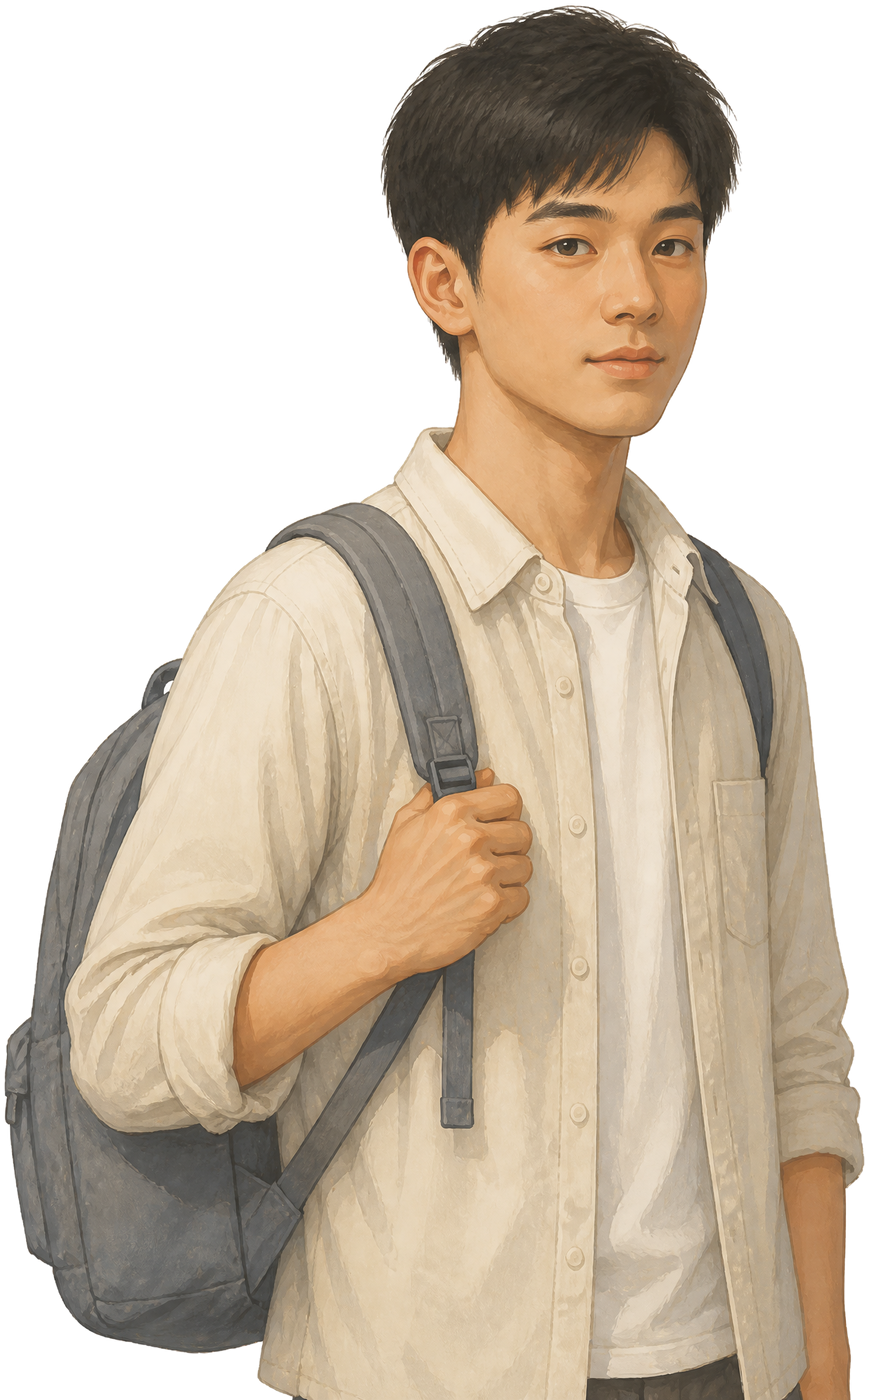
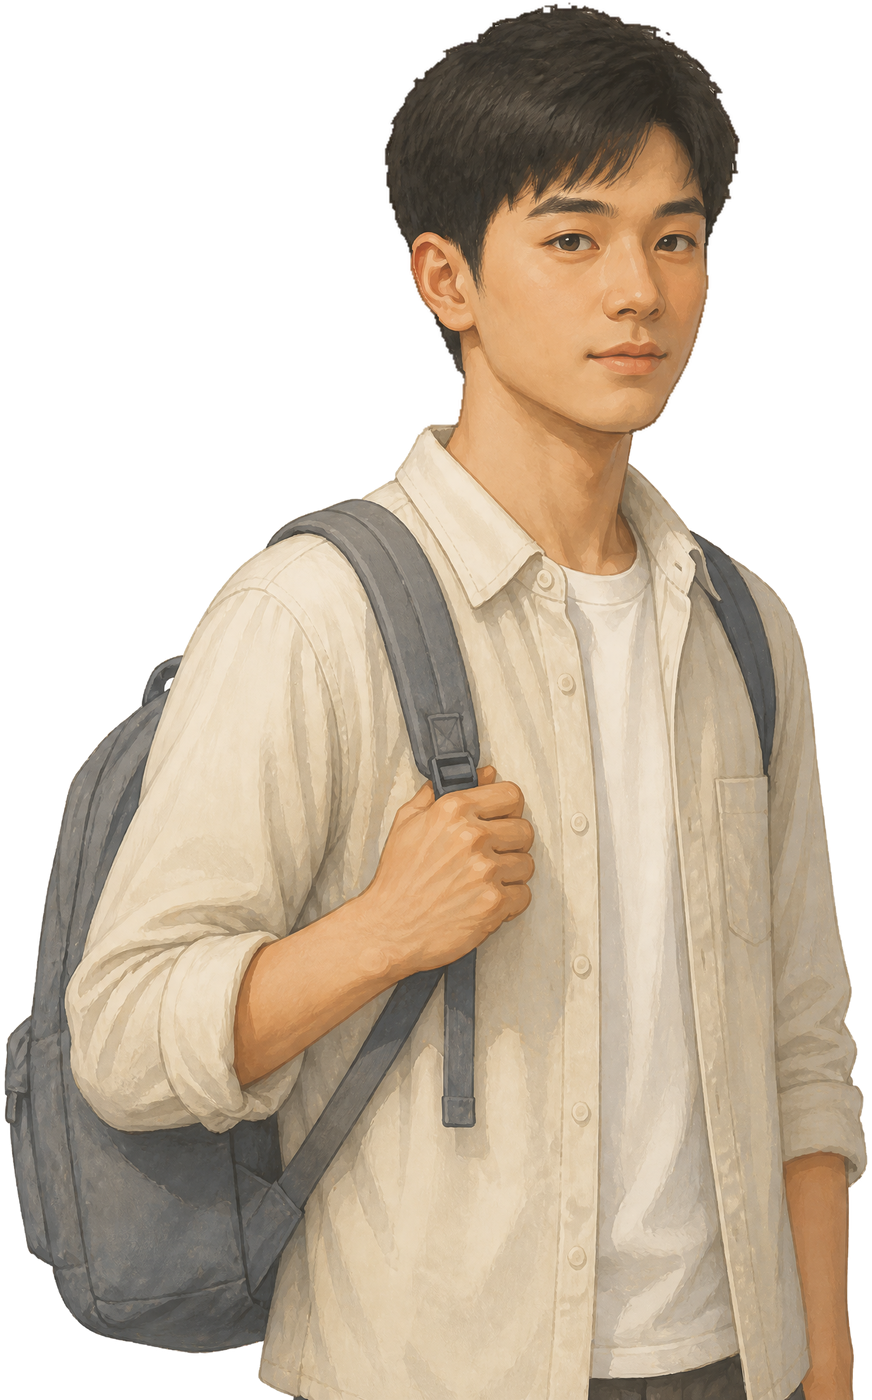
Optimize artwork loading and clean player hair edges

diff --git a/app.js b/app.js
@@ -42,7 +42,26 @@
   }).filter((m,i,all)=>all.findIndex(other=>other.key===m.key)===i);
   const esc = s => String(s).replace(/[&<>"']/g, c => ({'&':'&amp;','<':'&lt;','>':'&gt;','"':'&quot;',"'":'&#39;'}[c]));
   const artSrc = id => temporaryArt.get(id) || `assets/${art.find(a=>a.id===id).file}`;
-  const img = (id, cls='', alt='') => `<img class="${cls}" data-art="${id}" src="${esc(artSrc(id))}" alt="${esc(alt)}">`;
+  const img = (id, cls='', alt='') => `<img class="${cls}" data-art="${id}" src="${esc(artSrc(id))}" alt="${esc(alt)}" decoding="async"${cls==='scene-image'?' fetchpriority="high"':''}>`;
+  const warmedImages = new Map();
+  let warmRevision = 0;
+  function prepareNextImages(ids) {
+    const revision = ++warmRevision;
+    if(navigator.connection?.saveData)return;
+    // Finish the visible artwork first; speculative requests must not delay it.
+    const visible = [...app.querySelectorAll('img')];
+    Promise.allSettled(visible.map(el=>el.decode())).then(()=>setTimeout(async()=>{
+      for(const id of [...new Set(ids)].filter(Boolean)){
+        if(revision!==warmRevision)return;
+        const src=artSrc(id);
+        if(warmedImages.has(src))continue;
+        const preview=new Image();preview.decoding='async';preview.fetchPriority='low';
+        warmedImages.set(src,preview);
+        preview.src=src;
+        try{await preview.decode();}catch(_){warmedImages.delete(src);}
+      }
+    },200));
+  }
   function wireImages(root=document) {
     root.querySelectorAll('img[data-art]').forEach(el => {
       const success = () => {
@@ -72,7 +91,7 @@
   }
   function renderCover() {
     showingCover=true;
-    app.innerHTML=`<section class="ending opening-screen">${img('cover','scene-image','清晨稻田主页面')}<div class="ending-content"><h1 class="cover-title"><img src="assets/00-title.png" alt="稻续山河" width="1857" height="658"></h1><p>一粒稻种，<br>一场未完的梦。</p><div class="ending-buttons"><button class="primary" id="start-button">${state.started?'继续故事':'走进稻乡'}</button>${state.started?'<button class="secondary" id="restart-cover">重新启程</button>':''}</div></div></section>`;
+    app.innerHTML=`<section class="ending opening-screen">${img('cover','scene-image','清晨稻田主页面')}<div class="ending-content"><h1 class="cover-title"><img src="assets/00-title.webp" alt="稻续山河" width="1857" height="658"></h1><p>一粒稻种，<br>一场未完的梦。</p><div class="ending-buttons"><button class="primary" id="start-button">${state.started?'继续故事':'走进稻乡'}</button>${state.started?'<button class="secondary" id="restart-cover">重新启程</button>':''}</div></div></section>`;
     document.querySelector('#start-button').onclick=()=>{state.started=true;save();renderStory();};
     document.querySelector('#restart-cover')?.addEventListener('click',restartPrompt);
     if(state.finished){
@@ -80,6 +99,8 @@
       document.querySelector('#cover-chapters').onclick=showChapters;document.querySelector('#restart-cover').onclick=restartPrompt;
     }else if(state.hasCompleted){app.querySelector('.ending-buttons').insertAdjacentHTML('beforeend','<button class="secondary" id="cover-chapters">选择章节</button>');document.querySelector('#cover-chapters').onclick=showChapters;}
     wireImages(app);
+    const resume=nodes[state.index];
+    prepareNextImages([resume.scene||chapters[resume.chapter].scene,...(resume.chapter===2?['rice-normal','rice-special']:[]),'grandpa','player']);
   }
   function currentText(node) {
     if(node.dynamic==='harvest-reflection')return state.results.harvest?.lost>0?'刚才我只想着把杂屑扬干净，手一重，连谷子也扬出去了。以前说“别浪费粮食”，到了自己手上，才知道留下它也得有耐心。':'这一把谷子就得这么仔细，才能稳稳留下来。我以前只看见碗里的饭，还真没想过，前面有这么多道工夫。';
@@ -120,6 +141,8 @@
       remember('你',option.label);state.dreamActive=option.id;state.dreamAnswers[state.dreamQuestion]=option.id;renderStory();
     });
     wireImages(app);
+    const nextScene=nodes.slice(state.index+1).map(n=>n.scene||chapters[n.chapter].scene).find(id=>id!==scene);
+    prepareNextImages([...(node.chapter===2?['rice-normal','rice-special']:[]),!night?(portrait==='player'?'grandpa':'player'):null,nextScene,...(nextScene==='research'?['rice-normal','rice-special']:[])]);
   }
   function advance() {
     const node=nodes[state.index];
@@ -132,6 +155,7 @@
     state.index=Math.min(state.index+1,nodes.length-1);renderStory();
   }
   function renderEnding() {
+    ++warmRevision;
     showingCover=false;state.finished=true;state.hasCompleted=true;save();
     app.innerHTML=`<section class="ending finale">${img('epilogue','scene-image','星河稻田中的老人和青年')}<div class="ending-content"><h1>稻续山河</h1><p>前人种下稻种，<br>我们继续守护山河稻香。</p><div class="ending-buttons"><button class="primary" id="ending-memory">回望沿途记忆</button><button class="secondary" id="ending-home">回到主页面</button></div></div></section>`;
     document.querySelector('#ending-memory').onclick=showChapters;

diff --git a/story.js b/story.js
@@ -7,22 +7,22 @@ window.RICE_STORY = (() => {
     {name:'梦起稻田', subtitle:'禾下乘凉，初心如愿', label:'第三章', scene:'dusk', time:'黄昏', place:'巨型稻片区 · 稻禾之下'}
   ];
   const art = [
-    {id:'cover', name:'主页面清晨稻田', file:'00-cover.png', type:'scene', note:'16:9 横幅；主页面独立背景'},
-    {id:'field', name:'清晨稻田', file:'01-field.png', type:'scene', note:'16:9 横幅；田埂向前延伸，底部留出对白空间'},
-    {id:'old', name:'老田埂', file:'02-old-field.png', type:'scene', note:'16:9 横幅；现实田间，旧照、锄头、竹篮可画入场景'},
-    {id:'research', name:'试验田', file:'03-research.png', type:'scene', note:'16:9 横幅；当下的水田，不出现过去人物'},
-    {id:'dusk', name:'黄昏巨型稻', file:'04-dusk.png', type:'scene', note:'16:9 横幅；高大稻禾，右侧可留人物位置'},
-    {id:'night', name:'星河与稻禾', file:'05-night.png', type:'scene', note:'16:9 横幅；你与李爷爷可直接画入最终全景'},
-    {id:'epilogue', name:'尾声传承全景', file:'16-epilogue.png', type:'scene', note:'尾声最后一段与标题结尾；画稿铺满场景，静态展示'},
-    {id:'grandpa', name:'李爷爷立绘', file:'06-grandpa.png', type:'portrait', note:'透明 PNG，建议 2:3；人物放在画面右侧，底部被对白框遮挡'},
-    {id:'player', name:'主控立绘', file:'07-player.png', type:'portrait', note:'透明 PNG；主控对白时显示在左侧'},
-    {id:'rice-normal', name:'普通稻穗特写', file:'09-rice-normal.png', type:'rice', note:'1:1；绘出较饱满、黄色的花药，仅作观察示意'},
-    {id:'rice-special', name:'目标稻穗特写', file:'10-rice-special.png', type:'rice', note:'1:1；绘出细瘦、色浅的花药，仅作观察示意'},
-    {id:'bundle', name:'打谷稻束', file:'11-bundle.png', type:'prop', note:'透明 PNG；横向稻束，用于点击脱粒'},
-    {id:'tray', name:'扬谷竹匾', file:'12-tray.png', type:'prop', note:'透明 PNG；俯视竹匾，拖动时整体移动'},
-    {id:'grain', name:'脱粒稻谷', file:'13-grain.png', type:'prop', note:'透明 PNG；一小堆稻谷，叠放在竹匾中'},
-    {id:'chaff', name:'谷中杂屑', file:'14-chaff.png', type:'prop', note:'透明 PNG；零散轻杂屑，扬谷时逐渐淡出'},
-    {id:'scale', name:'称粮秤', file:'15-scale.png', type:'prop', note:'透明 PNG；完整秤与空秤盘，放在称重区'},
+    {id:'cover', name:'主页面清晨稻田', file:'00-cover.webp', type:'scene', note:'16:9 横幅；主页面独立背景'},
+    {id:'field', name:'清晨稻田', file:'01-field.webp', type:'scene', note:'16:9 横幅；田埂向前延伸，底部留出对白空间'},
+    {id:'old', name:'老田埂', file:'02-old-field.webp', type:'scene', note:'16:9 横幅；现实田间，旧照、锄头、竹篮可画入场景'},
+    {id:'research', name:'试验田', file:'03-research.webp', type:'scene', note:'16:9 横幅；当下的水田，不出现过去人物'},
+    {id:'dusk', name:'黄昏巨型稻', file:'04-dusk.webp', type:'scene', note:'16:9 横幅；高大稻禾，右侧可留人物位置'},
+    {id:'night', name:'星河与稻禾', file:'05-night.webp', type:'scene', note:'16:9 横幅；你与李爷爷可直接画入最终全景'},
+    {id:'epilogue', name:'尾声传承全景', file:'16-epilogue.webp', type:'scene', note:'尾声最后一段与标题结尾；画稿铺满场景，静态展示'},
+    {id:'grandpa', name:'李爷爷立绘', file:'06-grandpa.webp', type:'portrait', note:'透明 PNG，建议 2:3；人物放在画面右侧，底部被对白框遮挡'},
+    {id:'player', name:'主控立绘', file:'07-player.webp', type:'portrait', note:'透明 PNG；主控对白时显示在左侧'},
+    {id:'rice-normal', name:'普通稻穗特写', file:'09-rice-normal.webp', type:'rice', note:'1:1；绘出较饱满、黄色的花药，仅作观察示意'},
+    {id:'rice-special', name:'目标稻穗特写', file:'10-rice-special.webp', type:'rice', note:'1:1；绘出细瘦、色浅的花药，仅作观察示意'},
+    {id:'bundle', name:'打谷稻束', file:'11-bundle.webp', type:'prop', note:'透明 PNG；横向稻束，用于点击脱粒'},
+    {id:'tray', name:'扬谷竹匾', file:'12-tray.webp', type:'prop', note:'透明 PNG；俯视竹匾，拖动时整体移动'},
+    {id:'grain', name:'脱粒稻谷', file:'13-grain.webp', type:'prop', note:'透明 PNG；一小堆稻谷，叠放在竹匾中'},
+    {id:'chaff', name:'谷中杂屑', file:'14-chaff.webp', type:'prop', note:'透明 PNG；零散轻杂屑，扬谷时逐渐淡出'},
+    {id:'scale', name:'称粮秤', file:'15-scale.webp', type:'prop', note:'透明 PNG；完整秤与空秤盘，放在称重区'},
   ];
   const nodes = [];
   let chapter = 0;

diff --git a/index.html b/index.html
@@ -5,6 +5,7 @@
   <meta name="viewport" content="width=device-width, initial-scale=1.0">
   <meta name="theme-color" content="#eff0e8">
   <title>稻续山河 · 田间研学互动故事</title>
+  <link rel="preload" as="image" href="assets/00-cover.webp" fetchpriority="high">
   <link rel="stylesheet" href="style.css">
   <link rel="stylesheet" href="harvest.css">
   <link rel="stylesheet" href="water-watch.css">
